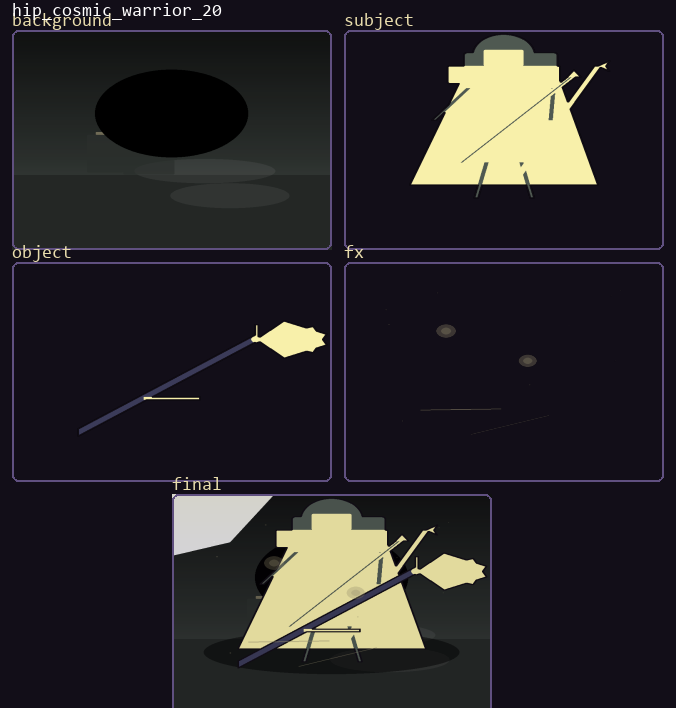
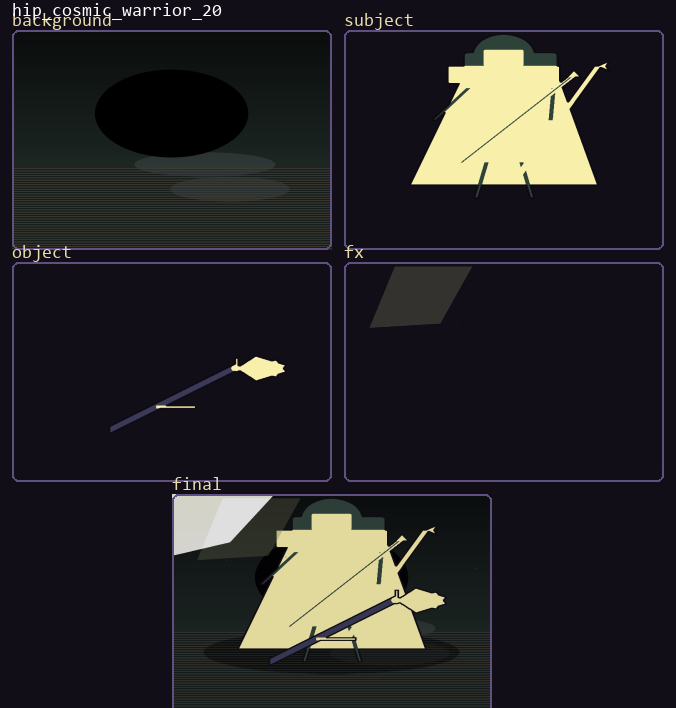
save "Add FX rules and update art candidates based on validation feedback

diff --git a/game/art/fx_layer.py b/game/art/fx_layer.py
@@ -3,37 +3,100 @@ from __future__ import annotations
 import random
 import pygame
 
+from game.art.fx_rules import resolve_fx_rule
+
+
+def _pick_color(rule, palette):
+    top, mid, low, acc = palette
+    if rule.palette_bias == 'archon':
+        return acc
+    if rule.palette_bias == 'hyperborea':
+        return (min(255, acc[0]), min(255, acc[1]), min(255, acc[2]))
+    return acc
+
+
+def _outside_keepout(pt, keepout: pygame.Rect) -> bool:
+    return not keepout.collidepoint(pt)
+
+
+def _rand_point(rng: random.Random, rect: pygame.Rect):
+    return (rng.randint(rect.left, rect.right), rng.randint(rect.top, rect.bottom))
+
 
 def draw_fx(surface: pygame.Surface, semantic: dict, palette, rng: random.Random):
-    desc = ' '.join([
-        str(semantic.get('effects', '') or ''),
-        str(semantic.get('effects_desc', '') or ''),
-        str(semantic.get('energy', '') or ''),
-    ]).lower()
-    color = palette[3]
+    rule = resolve_fx_rule(semantic)
+    color = _pick_color(rule, palette)
     w, h = surface.get_size()
-    subtle = 'subtle' in desc or 'calm' in desc or 'ward' in desc
-    n_streaks = 1 if subtle else 2
-    n_orbs = 1 if subtle else 2
-    n_sparks = 6 if subtle else 9
-    focus_band_y = int(h * 0.58)
-    focus_band_h = int(h * 0.24)
+    keepout = pygame.Rect(int(w * 0.24), int(h * 0.18), int(w * 0.52), int(h * 0.54))
+    ring_rect = pygame.Rect(int(w * 0.12), int(h * 0.08), int(w * 0.76), int(h * 0.76))
 
-    for _ in range(n_streaks):
-        x1 = rng.randint(int(w * 0.18), int(w * 0.42))
-        y1 = rng.randint(focus_band_y, focus_band_y + focus_band_h)
-        x2 = x1 + rng.randint(int(w * 0.16), int(w * 0.28))
-        y2 = y1 - rng.randint(4, int(h * 0.1))
-        pygame.draw.line(surface, (*color, 118), (x1, y1), (x2, y2), rng.randint(2, 4))
+    family = rule.family
+    if family == 'aura_glow':
+        glow = pygame.Surface((w, h), pygame.SRCALPHA)
+        pygame.draw.ellipse(glow, (*color, rule.alpha_min), (int(w * 0.18), int(h * 0.12), int(w * 0.64), int(h * 0.62)), 4)
+        pygame.draw.ellipse(glow, (*color, max(rule.alpha_min - 18, 32)), (int(w * 0.22), int(h * 0.18), int(w * 0.56), int(h * 0.50)), 2)
+        surface.blit(glow, (0, 0))
+    elif family == 'sacred_wind':
+        for _ in range(rule.particle_count):
+            side = rng.choice(['left', 'right'])
+            x1 = rng.randint(int(w * 0.04), int(w * 0.18)) if side == 'left' else rng.randint(int(w * 0.82), int(w * 0.96))
+            y1 = rng.randint(int(h * 0.20), int(h * 0.74))
+            x2 = x1 + rng.randint(14, 28) * (1 if side == 'left' else -1)
+            y2 = y1 + rng.randint(-8, 8)
+            pygame.draw.arc(surface, (*color, rng.randint(max(136, rule.alpha_min), max(164, rule.alpha_max))), (min(x1, x2), min(y1, y2), abs(x2 - x1) + 18, 16), 0.2, 2.8, 2)
+    elif family == 'rune_particles':
+        corners = [
+            pygame.Rect(0, 0, int(w * 0.28), int(h * 0.28)),
+            pygame.Rect(int(w * 0.72), 0, int(w * 0.28), int(h * 0.28)),
+            pygame.Rect(0, int(h * 0.72), int(w * 0.28), int(h * 0.28)),
+            pygame.Rect(int(w * 0.72), int(h * 0.72), int(w * 0.28), int(h * 0.28)),
+        ]
+        for _ in range(rule.particle_count):
+            rect = rng.choice(corners)
+            x, y = _rand_point(rng, rect)
+            s = rng.randint(2, 4)
+            pygame.draw.rect(surface, (*color, rng.randint(max(136, rule.alpha_min), max(164, rule.alpha_max))), (x, y, s, s), border_radius=1)
+    elif family == 'corruption_smoke':
+        smoke = pygame.Surface((w, h), pygame.SRCALPHA)
+        zones = [
+            pygame.Rect(int(w * 0.06), int(h * 0.18), int(w * 0.20), int(h * 0.46)),
+            pygame.Rect(int(w * 0.74), int(h * 0.18), int(w * 0.20), int(h * 0.46)),
+        ]
+        for _ in range(rule.particle_count):
+            rect = rng.choice(zones)
+            cx, cy = _rand_point(rng, rect)
+            rw = rng.randint(int(w * 0.08), int(w * 0.14))
+            rh = rng.randint(int(h * 0.06), int(h * 0.12))
+            pygame.draw.ellipse(smoke, (*color, rng.randint(max(136, rule.alpha_min), max(164, rule.alpha_max))), (cx, cy, rw, rh))
+        surface.blit(smoke, (0, 0))
+    elif family == 'solar_light':
+        light = pygame.Surface((w, h), pygame.SRCALPHA)
+        pygame.draw.polygon(light, (*color, rule.alpha_min), [
+            (int(w * 0.16), int(h * 0.02)),
+            (int(w * 0.40), int(h * 0.02)),
+            (int(w * 0.30), int(h * 0.28)),
+            (int(w * 0.08), int(h * 0.30)),
+        ])
+        for _ in range(max(3, rule.particle_count - 2)):
+            px = rng.randint(int(w * 0.10), int(w * 0.40))
+            py = rng.randint(int(h * 0.06), int(h * 0.32))
+            pygame.draw.circle(light, (*color, rng.randint(max(136, rule.alpha_min), max(164, rule.alpha_max))), (px, py), rng.randint(1, 2))
+        surface.blit(light, (0, 0), special_flags=pygame.BLEND_RGBA_ADD)
+    elif family == 'void_sparks':
+        zones = [
+            pygame.Rect(0, 0, int(w * 0.22), h),
+            pygame.Rect(int(w * 0.78), 0, int(w * 0.22), h),
+        ]
+        for _ in range(rule.particle_count):
+            rect = rng.choice(zones)
+            x, y = _rand_point(rng, rect)
+            pygame.draw.line(surface, (*color, rng.randint(max(136, rule.alpha_min), max(164, rule.alpha_max))), (x, y), (x + rng.randint(-5, 5), y + rng.randint(-8, 8)), 2)
+            pygame.draw.circle(surface, (*color, rng.randint(max(136, rule.alpha_min), max(164, rule.alpha_max))), (x, y), 1)
 
-    for _ in range(n_orbs):
-        cx = rng.randint(int(w * 0.28), int(w * 0.72))
-        cy = rng.randint(int(h * 0.28), int(h * 0.68))
-        radius = rng.randint(max(4, w // 42), max(8, w // 26))
-        pygame.draw.circle(surface, (*color, 78), (cx, cy), radius)
-        pygame.draw.circle(surface, (*color, 128), (cx, cy), max(2, radius // 2))
-
-    for _ in range(n_sparks):
-        sx = rng.randint(int(w * 0.12), int(w * 0.88))
-        sy = rng.randint(int(h * 0.1), int(h * 0.86))
-        pygame.draw.circle(surface, (*color, rng.randint(72, 132)), (sx, sy), rng.randint(1, 2))
+    # Small universal spark pass constrained outside the subject core.
+    for _ in range(max(3, rule.particle_count // 2)):
+        px = rng.randint(0, w - 1)
+        py = rng.randint(0, h - 1)
+        if not _outside_keepout((px, py), keepout):
+            continue
+        pygame.draw.circle(surface, (*color, rng.randint(max(144, rule.alpha_min), max(176, rule.alpha_max))), (px, py), 1)

diff --git a/game/art/fx_rules.py b/game/art/fx_rules.py
@@ -1,0 +1,60 @@
+from __future__ import annotations
+
+from dataclasses import asdict, dataclass
+
+
+@dataclass(frozen=True)
+class FxRule:
+    effect_id: str
+    family: str
+    max_frame_ratio: float
+    particle_count: int
+    palette_bias: str
+    avoid_subject_core: bool = True
+    alpha_min: int = 72
+    alpha_max: int = 132
+
+
+FX_RULES: dict[str, FxRule] = {
+    "aura_glow": FxRule("aura_glow", "aura_glow", 0.12, 6, "chakana", alpha_min=58, alpha_max=108),
+    "sacred_wind": FxRule("sacred_wind", "sacred_wind", 0.10, 7, "chakana", alpha_min=64, alpha_max=112),
+    "rune_particles": FxRule("rune_particles", "rune_particles", 0.10, 10, "chakana", alpha_min=84, alpha_max=138),
+    "corruption_smoke": FxRule("corruption_smoke", "corruption_smoke", 0.14, 6, "archon", alpha_min=56, alpha_max=96),
+    "solar_light": FxRule("solar_light", "solar_light", 0.12, 5, "hyperborea", alpha_min=86, alpha_max=146),
+    "void_sparks": FxRule("void_sparks", "void_sparks", 0.10, 8, "archon", alpha_min=86, alpha_max=144),
+}
+
+
+def resolve_fx_rule(semantic: dict) -> FxRule:
+    text = " ".join(
+        [
+            str(semantic.get("effects", "") or ""),
+            str(semantic.get("effects_desc", "") or ""),
+            str(semantic.get("energy", "") or ""),
+            str(semantic.get("mood", "") or ""),
+            str(semantic.get("scene_type", "") or ""),
+            str(semantic.get("environment_kind", "") or ""),
+        ]
+    ).lower()
+    subject_kind = str(semantic.get("subject_kind", "") or "").lower()
+
+    if any(k in text for k in ("corruption", "malign", "decree", "void", "archon")) or "archon" in subject_kind:
+        if "smoke" in text or "corrupt" in text:
+            return FX_RULES["corruption_smoke"]
+        return FX_RULES["void_sparks"]
+    if any(k in text for k in ("solar", "polar", "hyperborea", "aurora", "ice")):
+        return FX_RULES["solar_light"]
+    if any(k in text for k in ("wind", "ward", "harmonic", "resonance", "sacred wind")):
+        return FX_RULES["sacred_wind"]
+    if any(k in text for k in ("rune", "oracle", "prophetic", "glyph", "particle")):
+        return FX_RULES["rune_particles"]
+    if any(k in text for k in ("aura", "glow", "halo")):
+        return FX_RULES["aura_glow"]
+    return FX_RULES["rune_particles"]
+
+
+def fx_rules_summary() -> dict:
+    return {
+        "preset_count": len(FX_RULES),
+        "rules": {key: asdict(rule) for key, rule in FX_RULES.items()},
+    }
